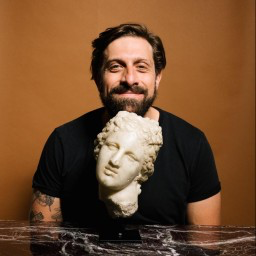
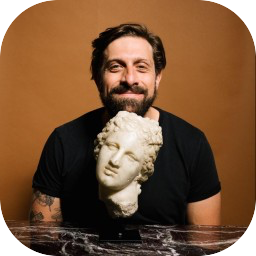
💅 style: improve legibility and experience visibility
Enhanced text selection contrast with semi-transparent rgba styling and ensure timeline entries remain visible by removing Reveal wrapper. Updated favicon with modern rounded corners and alpha transparency for better presentation across platforms.

diff --git a/app/page.tsx b/app/page.tsx
@@ -6,7 +6,6 @@ import {
   InstagramIcon,
   MailIcon,
 } from "@/components/social-icons"
-import { Reveal } from "@/components/reveal"
 import styles from "./page.module.css"
 
 const socials = [
@@ -179,12 +178,8 @@ const Home = () => (
         <h2 className={styles.timelineTitle}>Experience</h2>
 
         <div className={styles.track}>
-          {experience.map((item, index) => (
-            <Reveal
-              key={`${item.org}-${item.period}`}
-              className={styles.entry}
-              delay={index * 70}
-            >
+          {experience.map((item) => (
+            <div key={`${item.org}-${item.period}`} className={styles.entry}>
               <div className={styles.entryPeriod}>{item.period}</div>
               <h3 className={styles.entryRole}>{item.role}</h3>
               <p className={styles.entryOrg}>
@@ -192,7 +187,7 @@ const Home = () => (
                 <span className={styles.entryPlace}>· {item.place}</span>
               </p>
               <p className={styles.entryNote}>{item.note}</p>
-            </Reveal>
+            </div>
           ))}
         </div>
 

diff --git a/app/global.css b/app/global.css
@@ -27,8 +27,10 @@
 }
 
 ::selection {
-  background: #7c3aed;
-  color: #fff;
+  background: rgba(124, 58, 237, 0.24);
+}
+::-moz-selection {
+  background: rgba(124, 58, 237, 0.24);
 }
 
 html {